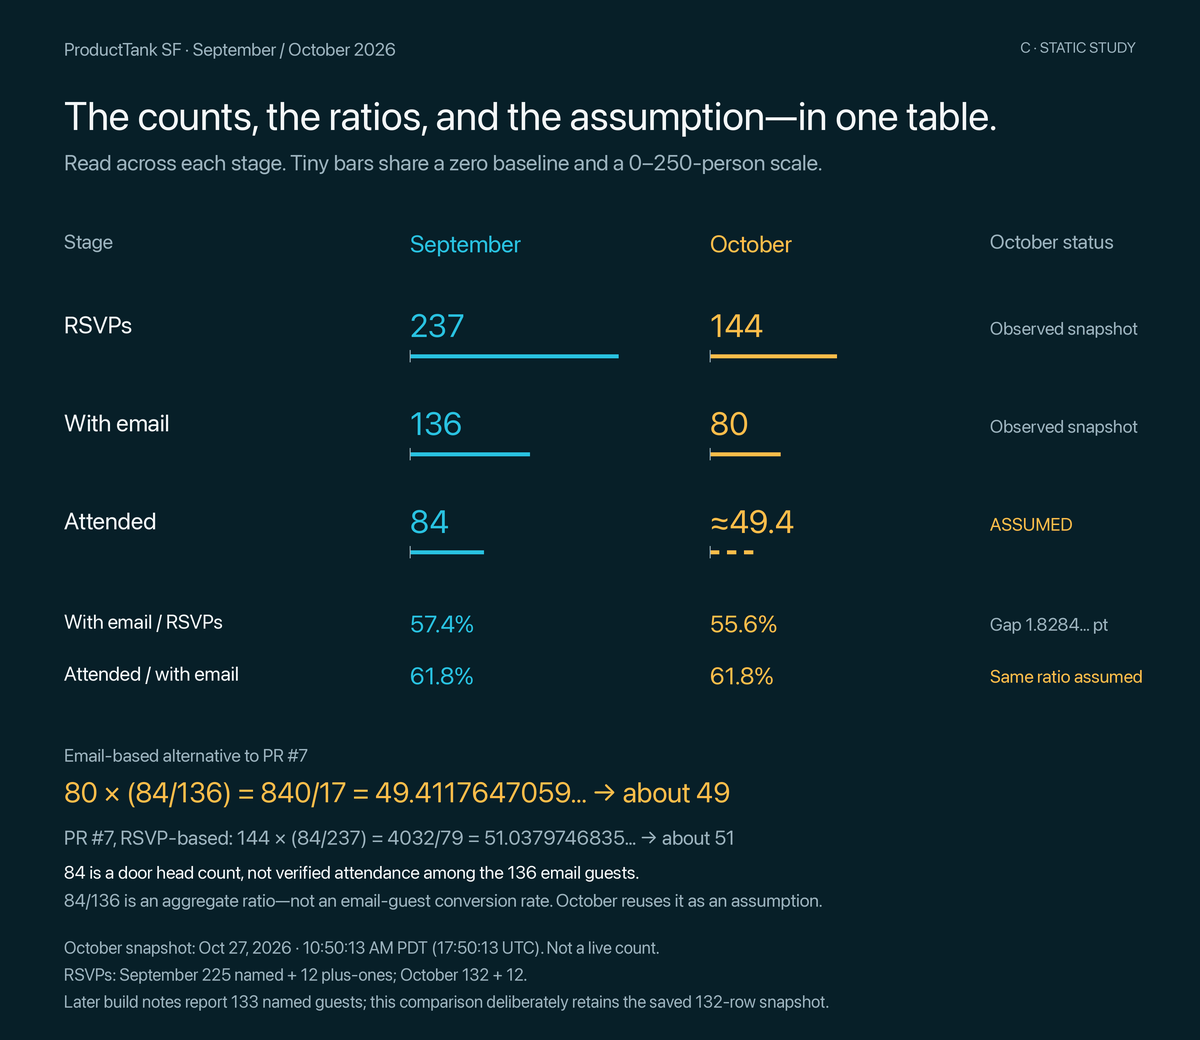
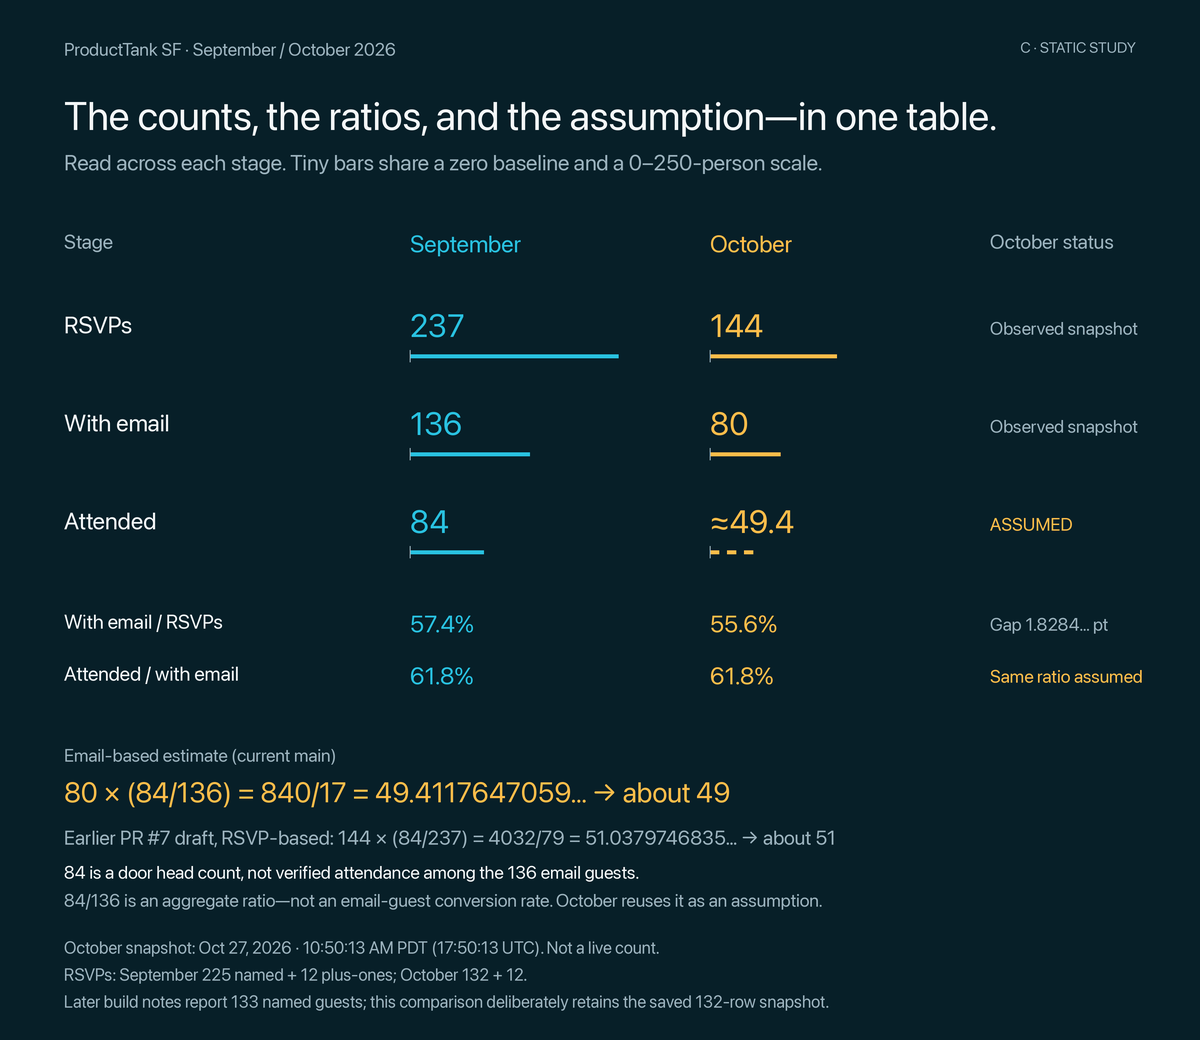
Address PR review feedback (#8)
- Correct merged PR #7 history and estimate labels in report and B/C footers
- Replace machine-local links and use GitHub heading anchors
- Replace internal decision history with final design rationale and verifiable GIF wording

Changed region(s): [[0.0617, 0.8, 0.6783, 0.8308], [0.1233, 0.7077, 0.2775, 0.7385]]

diff --git a/docs/reports/rsvp-attendance-funnel-visual-options/render_options.py b/docs/reports/rsvp-attendance-funnel-visual-options/render_options.py
@@ -81,9 +81,9 @@ class Canvas:
         self.draw.ellipse(bounds, fill=BACKGROUND if hollow else color, outline=color, width=2 * SCALE)
 
     def footer(self):
-        self.text(64, 744, "Email-based alternative to PR #7", 18, MUTED)
+        self.text(64, 744, "Email-based estimate (current main)", 18, MUTED)
         self.text(64, 775, f"{O_EMAIL} × ({ATTENDED}/{S_EMAIL}) = {ESTIMATE} = {float(ESTIMATE):.10f}… → about {round(ESTIMATE)}", 28, OCT_COLOR, bold=True)
-        self.text(64, 825, f"PR #7, RSVP-based: {O_TOTAL} × ({ATTENDED}/{S_TOTAL}) = {ALTERNATE} = {float(ALTERNATE):.10f}… → about {round(ALTERNATE)}", 20, MUTED)
+        self.text(64, 825, f"Earlier PR #7 draft, RSVP-based: {O_TOTAL} × ({ATTENDED}/{S_TOTAL}) = {ALTERNATE} = {float(ALTERNATE):.10f}… → about {round(ALTERNATE)}", 20, MUTED)
         self.text(64, 861, "84 is a door head count, not verified attendance among the 136 email guests.", 18)
         self.text(64, 889, "84/136 is an aggregate ratio—not an email-guest conversion rate. October reuses it as an assumption.", 18, MUTED)
         as_of = datetime.fromisoformat(OCT["as_of"].replace("Z", "+00:00"))

diff --git a/docs/reports/rsvp-attendance-funnel-visual-options/rsvp-attendance-funnel-visual-options-comparison.md b/docs/reports/rsvp-attendance-funnel-visual-options/rsvp-attendance-funnel-visual-options-comparison.md
@@ -2,13 +2,13 @@
 
 ## Recommendation
 
-**Selected: A, the three-stage slopegraph.** Wesley chose A in A1 and asked for less clutter, a narrower image and labels that do not collide with lines. That choice supersedes the initial recommendation of B.
+**Option A was selected: the three-stage slopegraph.** Its compact layout follows each month’s counts with less clutter and labels clear of the lines.
 
 Option A is now **720 × 540**, 40% narrower than the original 1200-pixel image, and is animated like the existing slopegraph GIF. B and C remain static 1200 × 1040 comparison images. A leads with its takeaway (“October is on pace for ≈49 attendees”) and a small grey “as of Oct. 27, 2026” at the upper right, names the stages (RSVPs, Email, Attended) in grey on one shared row along the bottom, joins each name to its column’s dots with a faint dashed guide, shows whole-number percentages and ends with two smaller plain-language notes. The brand, study badge, top header row, repeated formulas, axis ticks and long footer were removed from A; exact arithmetic, the full snapshot time and caveats remain below. All options reuse the existing palette and font loader, with direct labels and no legend or gridlines.
 
 ## Counts and snapshot
 
-Input: the committed [aggregate counts](../rsvp-slopegraph/stats.json), also shown in the [existing slopegraph report](../rsvp-slopegraph/report.md#ProductTank%20SF%20September%20vs.%20October%20RSVPs).
+Input: the committed [aggregate counts](../rsvp-slopegraph/stats.json), also shown in the [existing slopegraph report](../rsvp-slopegraph/report.md).
 
 | Stage | September 30, Cribl | October 28, Vapi |
 | --- | ---: | ---: |
@@ -18,7 +18,7 @@ Input: the committed [aggregate counts](../rsvp-slopegraph/stats.json), also sho
 | Guests with email | 136 | 80 |
 | Attendance | 84, door head count | Unknown; estimated below |
 
-The October input is frozen at **October 27, 2026, 17:50:13 UTC / 10:50:13 a.m. PDT**. It is not the latest live sheet. The [October build notes, approved-policy proof](/Users/wesleyfrederick/Documents/ObsidianVaultNew/Projects/ProductTank%20SF%20Assistant/202610-oct-2026-stripe-rammi-banna/guests-check-in/october-vapi-guest-list-build-notes.md#Approved-policy%20and%20browser%20cleanup%20proof) report **133 named guests at 12:04:35 p.m. PDT**, still 133 at 12:11:01 p.m. PDT. These mockups deliberately retain 132 named guests, 12 plus-ones and 80 with email from the saved snapshot; they do not mix a later named count with older email data. The build notes’ [source snapshots and inclusion rules](/Users/wesleyfrederick/Documents/ObsidianVaultNew/Projects/ProductTank%20SF%20Assistant/202610-oct-2026-stripe-rammi-banna/guests-check-in/october-vapi-guest-list-build-notes.md#Source%20snapshots%20and%20inclusion%20rules) document the companions and original email accounting. No live Google read was made for these mockups.
+The October input is frozen at **October 27, 2026, 17:50:13 UTC / 10:50:13 a.m. PDT**. It is not the latest live sheet. The October guest-list build notes (in the organizer’s Obsidian vault, not in this repo) report **133 named guests at 12:04:35 p.m. PDT**, still 133 at 12:11:01 p.m. PDT. These mockups deliberately retain 132 named guests, 12 plus-ones and 80 with email from the saved snapshot; they do not mix a later named count with older email data. The build notes’ source snapshots and inclusion rules document the companions and original email accounting. No live Google read was made for these mockups.
 
 ## Exact arithmetic
 
@@ -32,8 +32,8 @@ Fractions below are exact. Decimals with an ellipsis continue; headline percenta
 | October drop, RSVPs → with email | 64/144 = 4/9 | 44.444444444444444…% |
 | Email-share gap, September minus October | 100 × (136/237 − 5/9) = 1300/711 | 1.828410689170182… percentage points |
 | September attendees per guest with email | 84/136 = 21/34 | 61.764705882352941…% |
-| October email-based alternative to PR #7 | 80 × 21/34 = 840/17 | 49.411764705882352… → about **49** |
-| PR #7 estimate using total RSVPs | 144 × 84/237 = 4032/79 | 51.037974683544303… → about **51** |
+| Email-based estimate (current main) | 80 × 21/34 = 840/17 | 49.411764705882352… → about **49** |
+| RSVP-based estimate (earlier PR #7 draft, 2be0520) | 144 × 84/237 = 4032/79 | 51.037974683544303… → about **51** |
 | RSVP-based estimate minus email-based estimate | 4032/79 − 840/17 = 2184/1343 | 1.626209977661950… people |
 
 **“About the same percentage drop” is fair; “the same percentage drop” is not.** October retains a smaller email share by exactly 1300/711 percentage points. B and C show 57.4% and 55.6%; A’s whole-number 57% and 56% still preserve that distinction.
@@ -43,7 +43,7 @@ Fractions below are exact. Decimals with an ellipsis continue; headline percenta
 - **49** scales attendance with the email-guest count: October has 80/136 as many email guests as September.
 - **51** scales attendance with all RSVPs: October has 144/237 as many RSVPs as September.
 - Since October’s email share is slightly lower, the email-based method yields the lower estimate. They would agree if the email shares were identical.
-- **PR #7 versus this branch:** PR #7’s final head, `2be052039587a2ab31c8cf2c3eb689effe548d6d`, uses the RSVP-based estimate of **about 51**. Its [renderer](https://github.com/producttank-san-francisco/events/blob/2be052039587a2ab31c8cf2c3eb689effe548d6d/src/rsvp-slopegraph/src/rsvp_slopegraph.py) computes `round(rsvps(october) * turnout_rate(september))`, where turnout is `84/237`; its [saved report](https://github.com/producttank-san-francisco/events/blob/2be052039587a2ab31c8cf2c3eb689effe548d6d/docs/reports/rsvp-slopegraph/report.md) shows `~51`. Its [stats.json](https://github.com/producttank-san-francisco/events/blob/2be052039587a2ab31c8cf2c3eb689effe548d6d/docs/reports/rsvp-slopegraph/stats.json) contains the same observed input counts, not a stored October attendance estimate. The **49** email-based method is the alternative to that PR. This worktree already includes the PR’s final head **plus** the later email-based change `dc44c7f`, reflected in its [renderer instructions](../../../src/rsvp-slopegraph/README.md#Update%20the%20numbers). After `git fetch origin`, `git merge-base --is-ancestor 2be0520 HEAD` succeeded, so this branch was not older and no merge was needed. The earlier wording that treated this worktree’s 49 as a correction to the brief’s PR value was wrong; the two branch states differ.
+- **PR #7 history:** an [earlier draft, `2be0520`](https://github.com/producttank-san-francisco/events/blob/2be052039587a2ab31c8cf2c3eb689effe548d6d/src/rsvp-slopegraph/src/rsvp_slopegraph.py), used the RSVP-based calculation `144 × 84/237`, yielding **about 51**. PR #7’s [merged head, `dc44c7f`](https://github.com/producttank-san-francisco/events/blob/dc44c7f/src/rsvp-slopegraph/src/rsvp_slopegraph.py), switched to the email-based calculation `80 × 84/136`, yielding **about 49**. Current main uses that email-based estimate, as described in the [renderer instructions](../../../src/rsvp-slopegraph/README.md#update-the-numbers). This report keeps both formulas to explain the difference.
 
 ## Assumptions and limits
 
@@ -100,8 +100,8 @@ python3 -B docs/reports/rsvp-attendance-funnel-visual-options/render_options.py
 
 The [render script](render_options.py) reads the saved stats, imports the existing palette, font loader and animation timing, uses exact rational arithmetic until drawing, and writes only the three PNGs and Option A’s GIF beside itself. It does not update the source report, stats, GIF or Google Sheet. Layout and copy are mockups for this snapshot, not a hardened general-purpose chart API.
 
-Verification performed: ran the renderer and opened a contact sheet of eight A animation frames, from the opening pause to the final hold. A rendered at 720 × 540; all 18 text labels passed the render-time check for at least six pixels of clearance from all four full line segments and all three dashed guides, with no text overlaps. Text bounds also passed the canvas-edge check on every frame. The A PNG is byte-identical to the previous static version, so the final frame is unchanged. Read back from the files, the A GIF and the existing slopegraph GIF both total 6.92 seconds, open with a 400 ms frame, end with a 2,840 ms hold and have no loop flag. B and C still rendered at 1200 × 1040. No test suite was run, as requested. No device-specific display check is claimed.
+Verification performed: ran the renderer and opened a contact sheet of eight A animation frames, from the opening pause to the final hold. A rendered at 720 × 540; all 18 text labels passed the render-time check for at least six pixels of clearance from all four full line segments and all three dashed guides, with no text overlaps. Text bounds also passed the canvas-edge check on every frame. The final GIF frame matches the still PNG within GIF color quantization. Read back from the files, the A GIF and the existing slopegraph GIF both total 6.92 seconds, open with a 400 ms frame, end with a 2,840 ms hold and have no loop flag. B and C still rendered at 1200 × 1040. No test suite was run, as requested. No device-specific display check is claimed.
 
 ## Selected design
 
-A1 is resolved: **A — follow each month’s count path**, with less clutter, a narrower layout and labels clear of lines. A second pass replaced the topic title with the takeaway, rounded percentages to whole numbers and rewrote the notes in plain words. A third pass, from Wesley’s marked-up screenshot, centered 136 and 80 on their dots, lowered 84 and ≈49 to follow the line slope, moved “assumed” under ≈49, shrank the notes and dropped the clock time from the chart. A later pass, from a second markup, moved the grey stage names onto one shared bottom row, added faint dashed guides from each name up to its column’s dots and raised the lines to make room while keeping a clear gap under the title. Another pass moved the snapshot date to the upper right as “as of Oct. 27, 2026” and lowered the two remaining notes. A further pass put October’s labels (56%, 80, 62%) below the orange line, so September’s labels sit above their line and October’s below theirs; the Email guide now stops a few pixels under 80 and points up to it. The latest pass animated A with the existing GIF’s timing and final hold, leaving the last frame unchanged. The animated A is embedded above. B and C remain here as the alternatives considered, not as open choices. Both attendance formulas and the complete snapshot caveats remain in this report rather than on the compact chart.
+**Option A was selected** because following each month’s count path makes the similar proportional drops and the assumed October extension easy to compare. The narrow layout leads with the takeaway; stable direct labels, shared stage guides and plain-language caveats keep the chart compact without hiding counts or uncertainty. Animation reveals each step and its labels together, then holds on the final still. B and C remain as the alternatives considered, not open choices. Both attendance formulas and the complete snapshot caveats remain in this report rather than on the compact chart.
